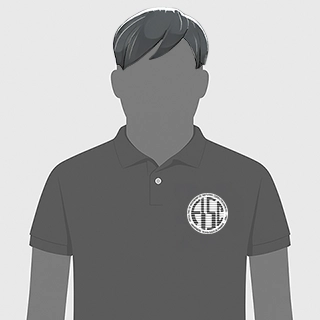
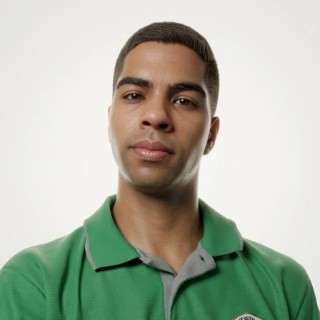
feat: agregar pagina de perfil de Robles Jorge

diff --git a/site/index.html b/site/index.html
@@ -63,6 +63,11 @@
           </a>
         </li>
         <li>
+          <a class="enlace-estudiante" href="./alumnos/robles-jorge/about-robles-jorge.html">
+            Jorge Robles
+          </a>
+        </li>
+        <li>
           <a class="enlace-estudiante" href="./alumnos/prueba-uno/about-prueba-uno.html">
             Prueba Uno
           </a>
@@ -75,11 +80,6 @@
         <li>
           <a class="enlace-estudiante" href="./alumnos/apellidos-nombre/about-apellidos-nombre.html">
             Nombre Apellidos (Patrón)
-          </a>
-        </li>
-        <li>
-          <a class="enlace-estudiante" href="./alumnos/robles-jorge/about-robles-jorge.html">
-            Jorge Robles
           </a>
         </li>
       </ol>

diff --git a/site/alumnos/robles-jorge/about-robles-jorge.html b/site/alumnos/robles-jorge/about-robles-jorge.html
@@ -96,7 +96,7 @@
             <figure class="perfil">
 
                 <img
-                    src="./assets/img/robles-jorge.jpeg"
+                    src="./assets/img/foto-robles-jorge-640.webp"
                     alt="Jorge Robles, estudiante de LDGS UTP FISC Veraguas"
                     width="160"
                     height="160"
